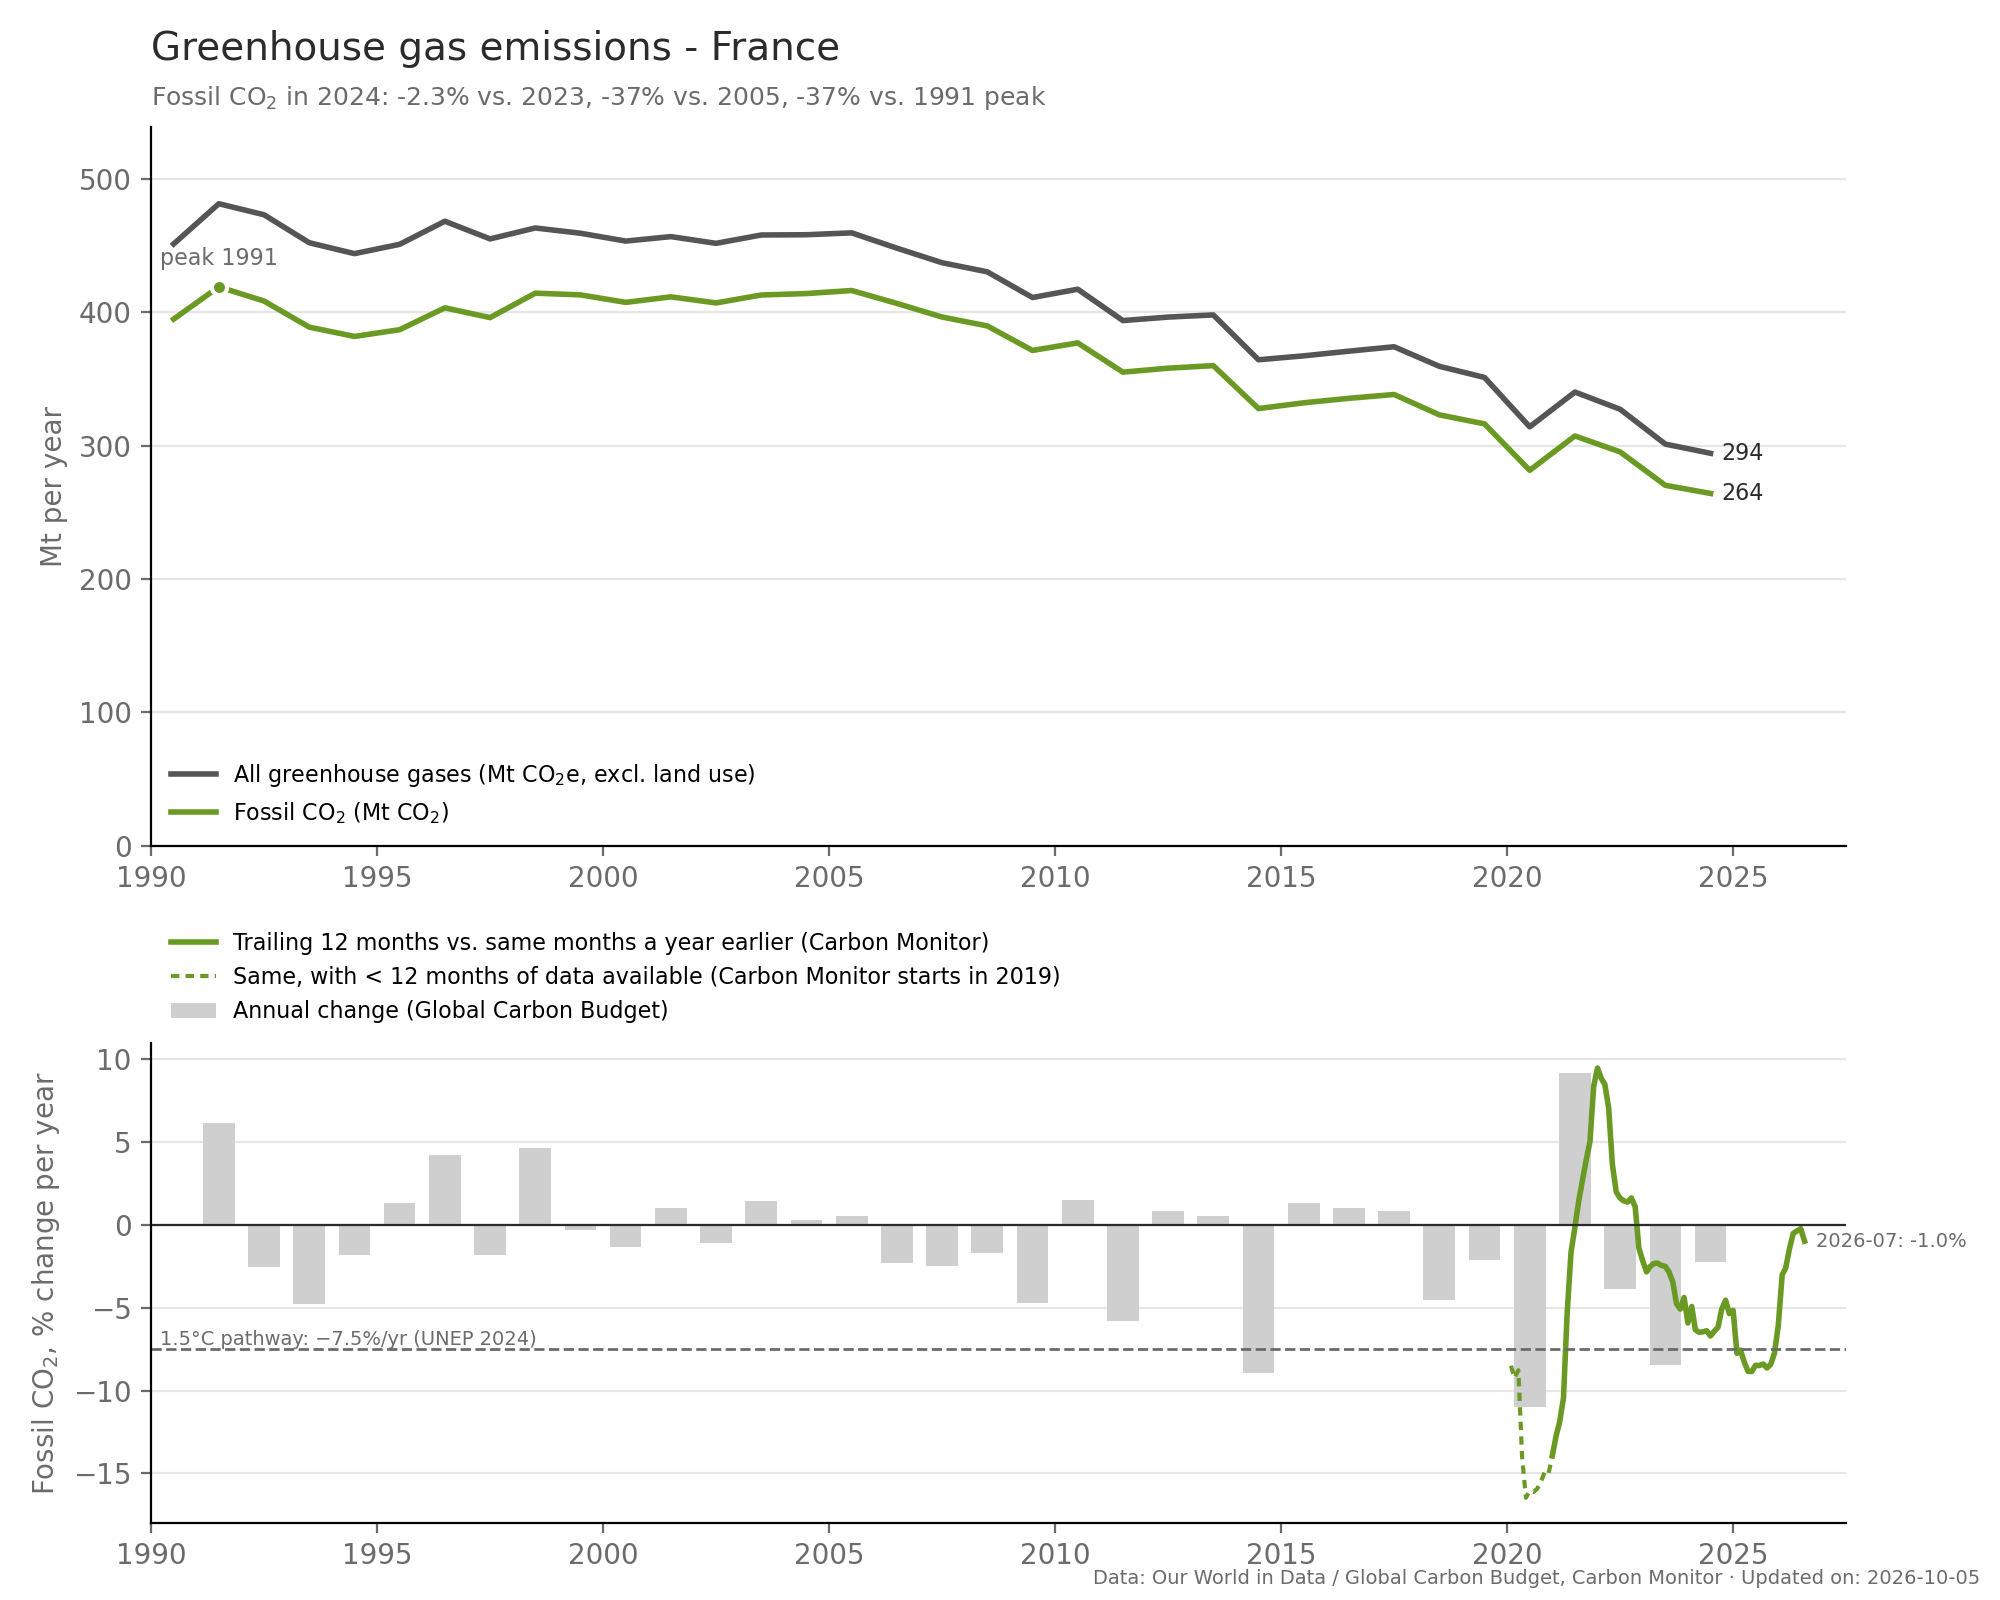
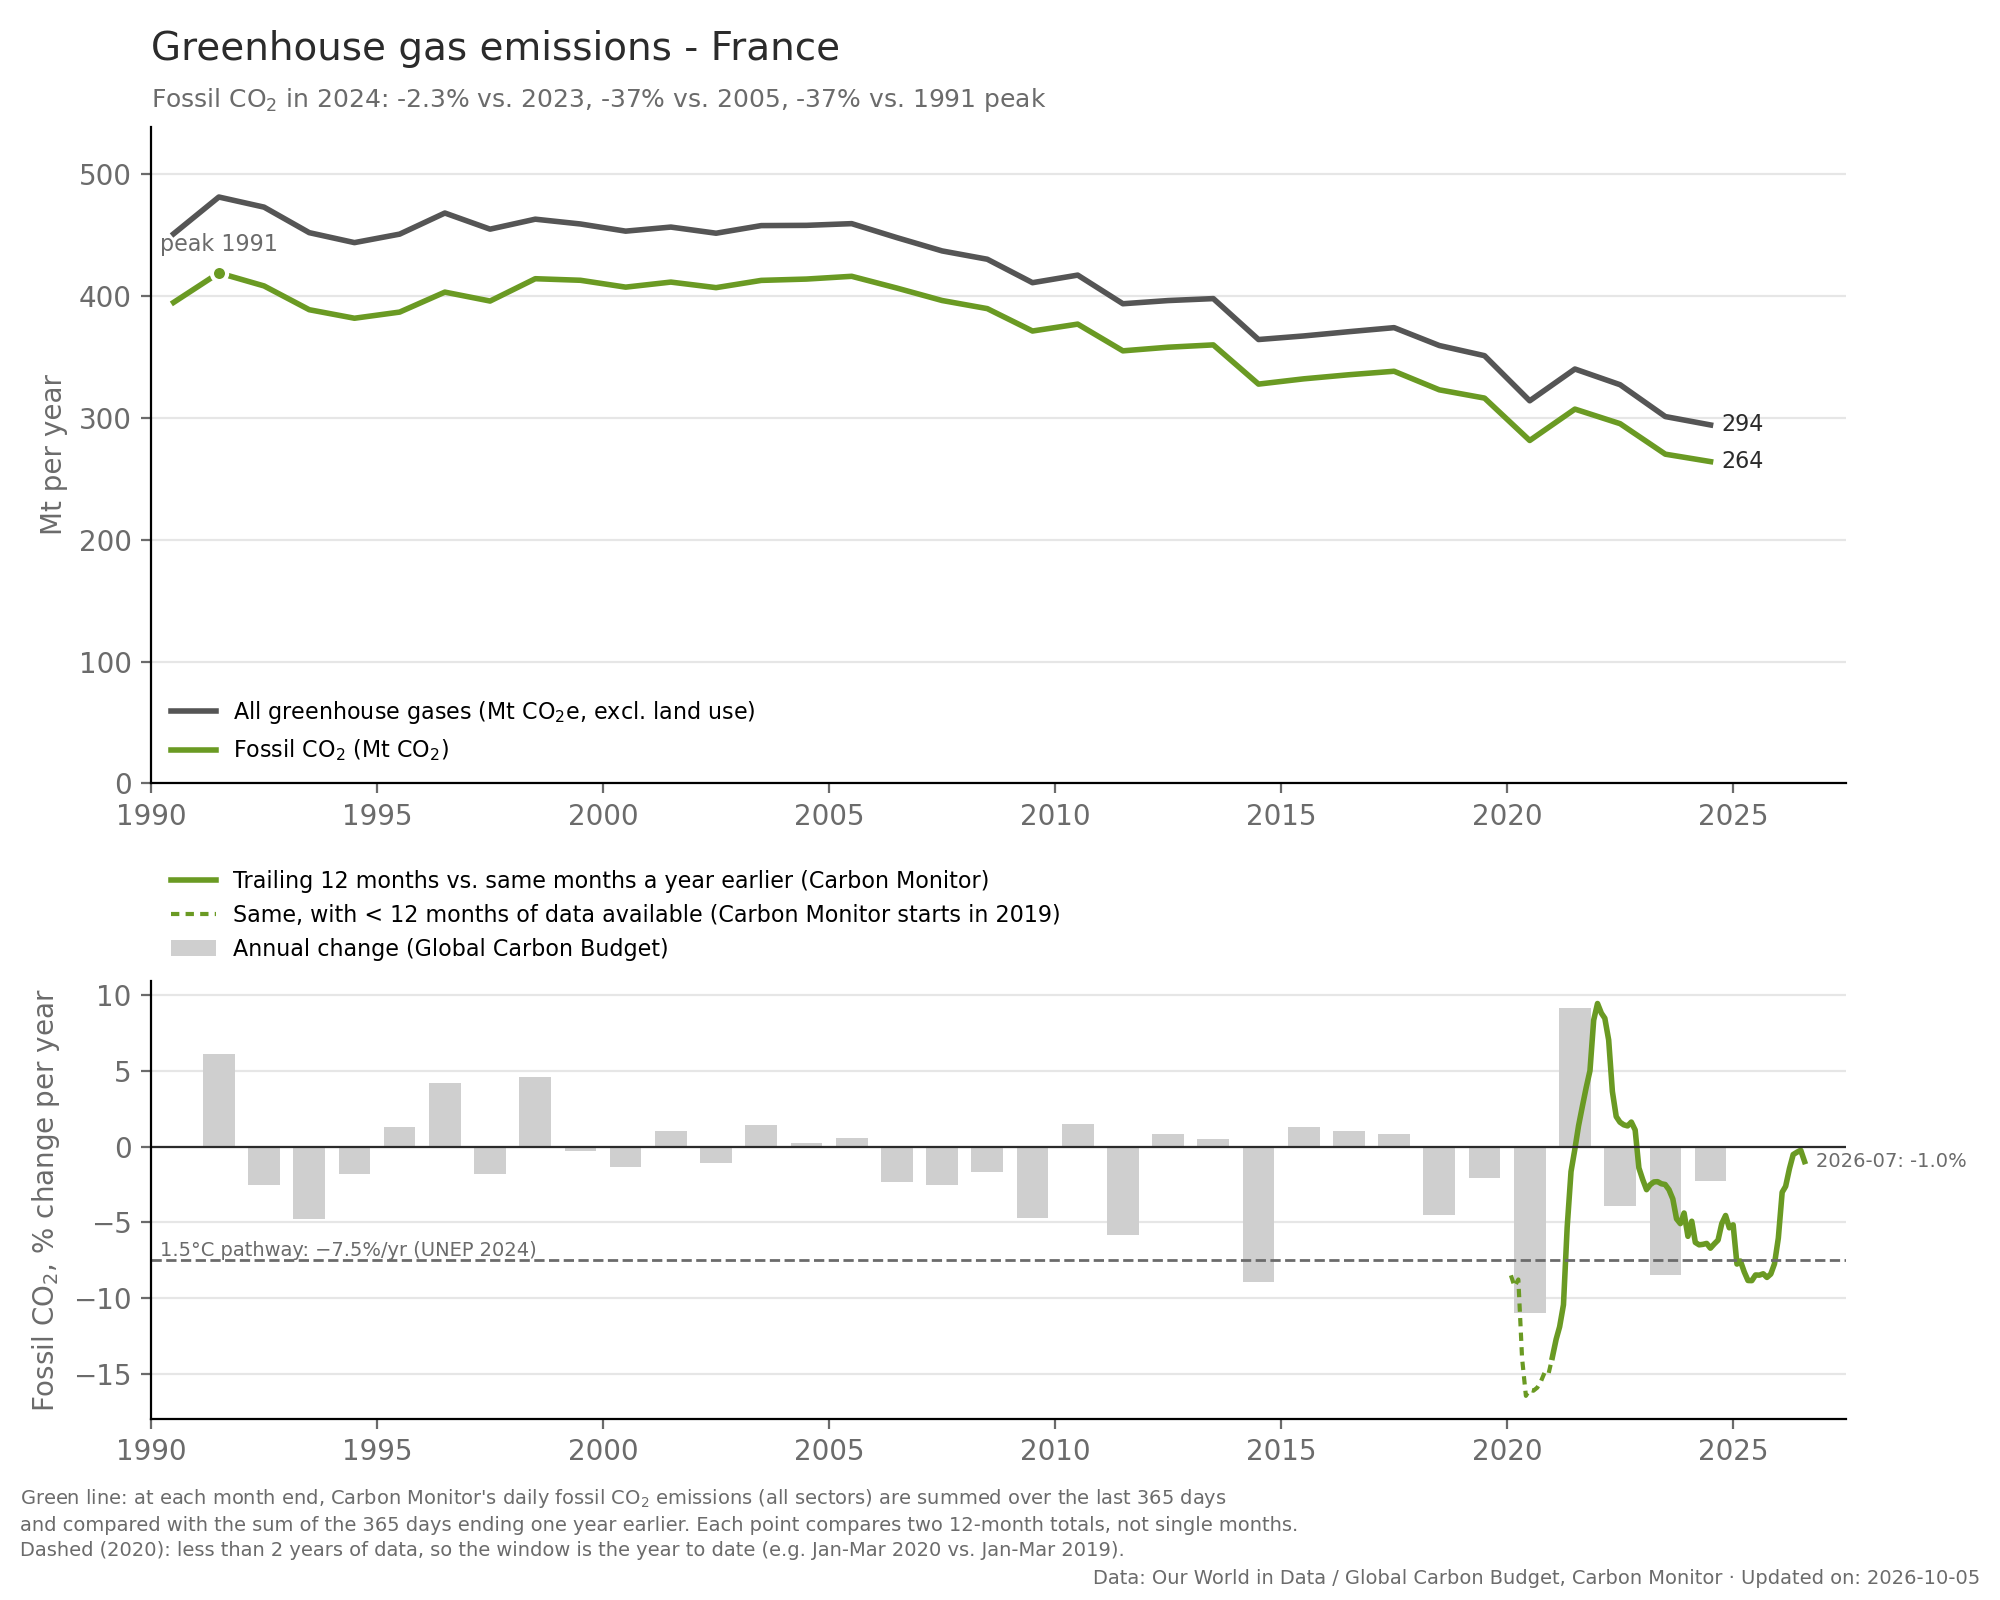
Explain the Carbon Monitor 12-month change calculation on emissions plots

diff --git a/make_emissions_plots.py b/make_emissions_plots.py
@@ -20,6 +20,11 @@ INK = "#2b2b2b"
 MUTED = "#6b6b6b"
 CO2_COLOR = "#6a9a23"
 GHG_COLOR = "#555555"
+METHOD_NOTE = (
+    "Green line: at each month end, Carbon Monitor's daily fossil CO$_2$ emissions (all sectors) are summed over the last 365 days\n"
+    "and compared with the sum of the 365 days ending one year earlier. Each point compares two 12-month totals, not single months.\n"
+    "Dashed (2020): less than 2 years of data, so the window is the year to date (e.g. Jan-Mar 2020 vs. Jan-Mar 2019)."
+)
 # x-axis is in decimal years: annual values sit mid-year, so each bar spans the calendar year it covers
 MID_YEAR = 0.5
 
@@ -100,7 +105,7 @@ def plot_emissions(owid: pd.DataFrame, cm_daily: pd.Series | None, name: str, ou
     vs_peak = (co2.iloc[-1] / co2[peak_year] - 1) * 100
     vs_2005 = (co2.iloc[-1] / co2[2005] - 1) * 100
     headline = f"Fossil CO$_2$ in {last_year}: {co2_change.iloc[-1]:+.1f}% vs. {last_year - 1}, {vs_2005:+.0f}% vs. 2005"
-    if peak_year != last_year:
+    if peak_year not in (last_year, 2005):
         headline += f", {vs_peak:+.0f}% vs. {peak_year} peak"
     ax.set_title(f"Greenhouse gas emissions - {name}", loc="left", fontsize=14, color=INK, pad=24)
     ax.text(0, 1.03, headline, transform=ax.transAxes, fontsize=9, color=MUTED)
@@ -134,7 +139,11 @@ def plot_emissions(owid: pd.DataFrame, cm_daily: pd.Series | None, name: str, ou
     ax2.set_xlim(xlim)
     sources = "Our World in Data / Global Carbon Budget" + (", Carbon Monitor" if cm_daily is not None else "")
     fig.text(0.99, 0.01, f"Data: {sources} · Updated on: {datetime.now():%Y-%m-%d}", ha="right", fontsize=7, color=MUTED)
-    fig.tight_layout()
+    if cm_daily is not None:
+        fig.text(0.01, 0.025, METHOD_NOTE, ha="left", va="bottom", fontsize=7, color=MUTED, linespacing=1.4)
+        fig.tight_layout(rect=(0, 0.065, 1, 1))
+    else:
+        fig.tight_layout(rect=(0, 0.02, 1, 1))
     fig.savefig(out, dpi=200)
     plt.close(fig)
 
